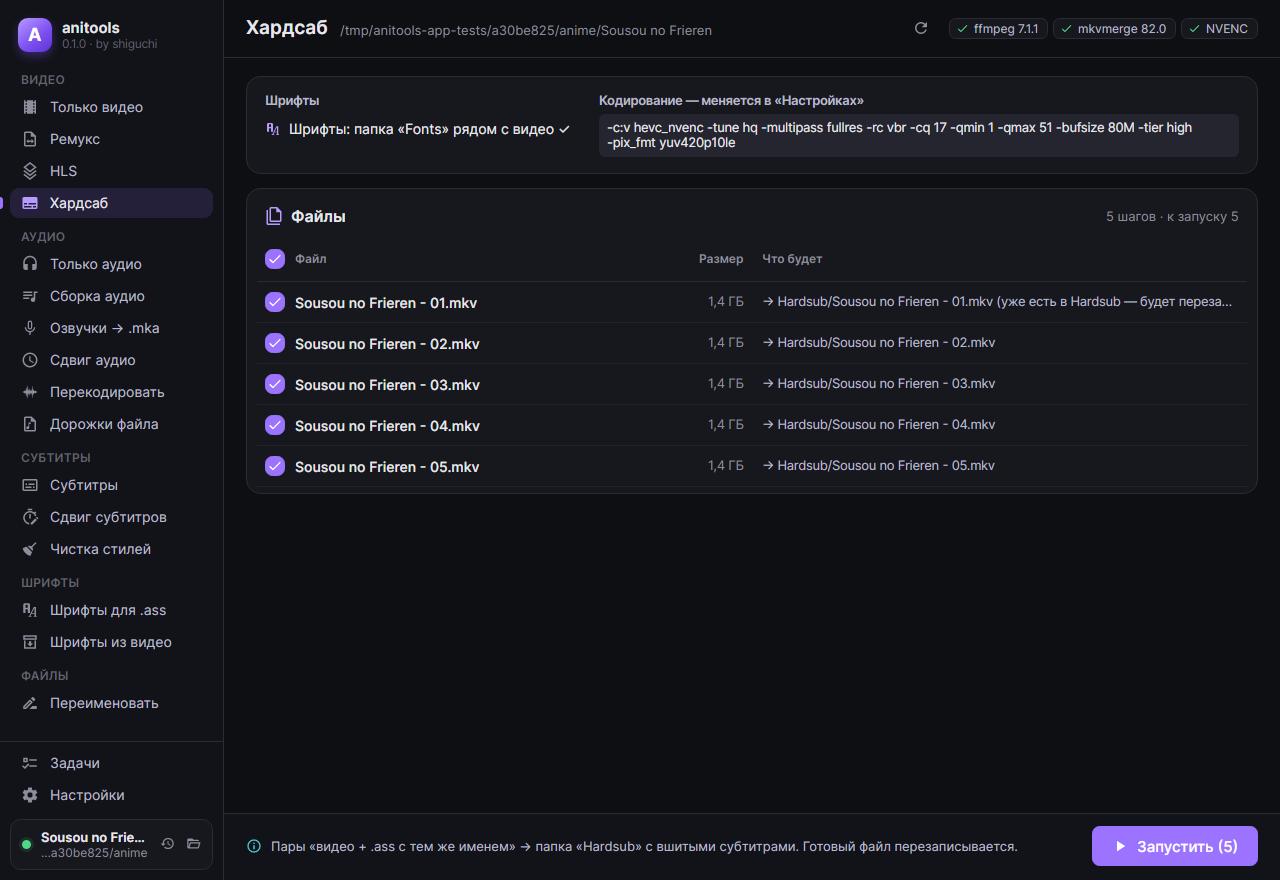
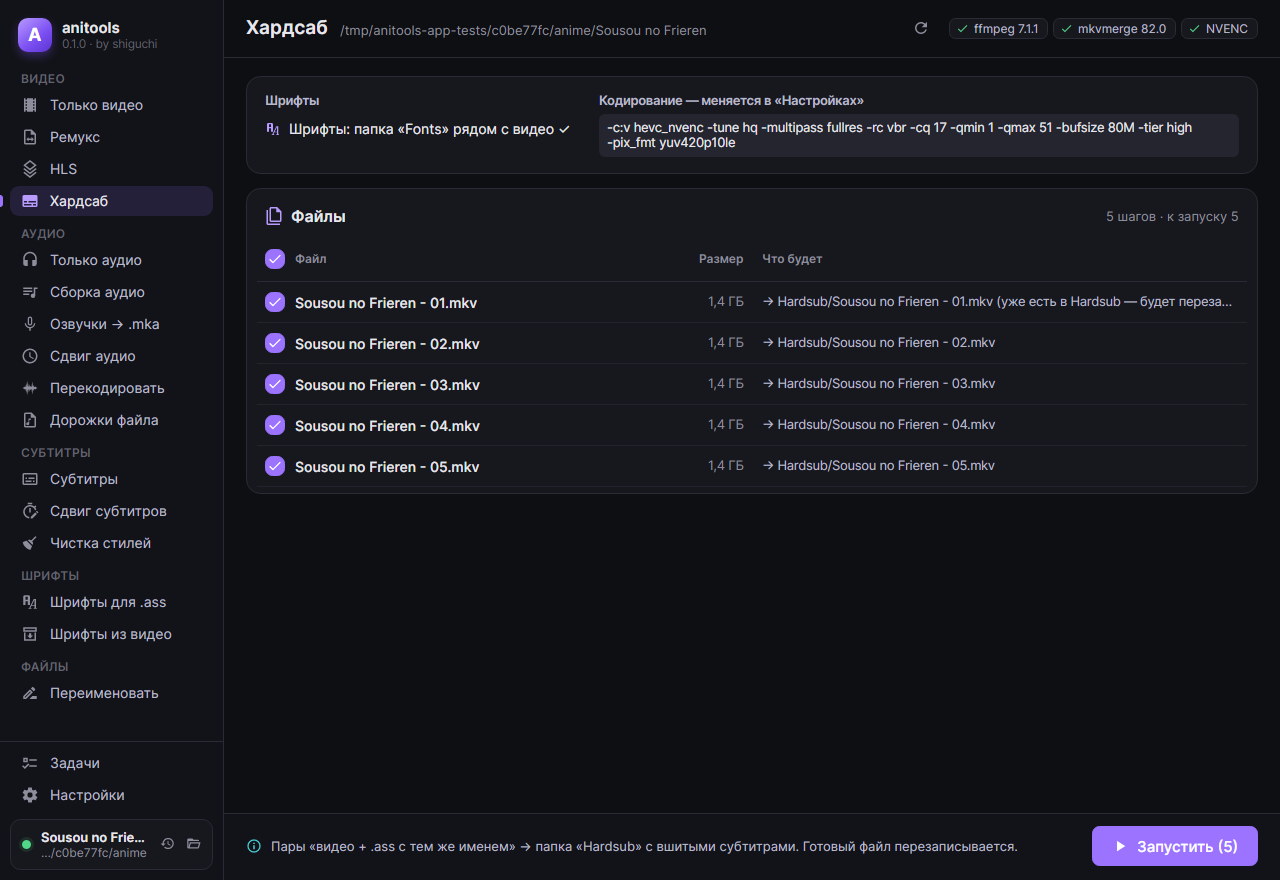
Меню: высота пунктов не зависит от шрифта, тест «всё помещается»
В Segoe UI строка выше, чем в Inter, — на Windows «Переименовать» уезжал
за прокрутку при стандартном размере окна.

Claude-Session: https://claude.ai/code/session_01BdLcn6FEckAvCHoTgtSA7g

Changed region(s): [[0.0, 0.092, 0.1562, 0.8284], [0.375, 0.0307, 0.5625, 0.0614], [0.0312, 0.9511, 0.125, 0.9818]]

diff --git a/tests/Anitools.App.Tests/MainWindowTests.cs b/tests/Anitools.App.Tests/MainWindowTests.cs
@@ -2,6 +2,7 @@ using Anitools.App.ViewModels;
 using Anitools.App.ViewModels.Pages;
 using Anitools.App.Views;
 using Anitools.Core.Jobs;
+using Avalonia;
 using Avalonia.Controls;
 using Avalonia.Headless.XUnit;
 using Avalonia.VisualTree;
@@ -29,6 +30,25 @@ public sealed class MainWindowTests
         Assert.Equal(["ВИДЕО", "АУДИО", "СУБТИТРЫ", "ШРИФТЫ", "ФАЙЛЫ"], vm.Navigation.OfType<NavHeader>().Select(h => h.Title));
         Assert.Same(vm.SettingsPage, vm.Navigation[^1]);
         Assert.Equal(18, vm.Navigation.OfType<PageViewModel>().Count());
+        window.Close();
+    }
+
+    [AvaloniaFact]
+    public void Whole_menu_fits_without_scrolling_in_default_window()
+    {
+        using var app = new AppFixture();
+        var vm = app.CreateViewModel();
+        var window = new MainWindow { DataContext = vm };
+        window.Show();
+        AppFixture.Flush();
+
+        // последний инструмент («Переименовать») целиком виден без прокрутки — и в Inter, и в Segoe UI на Windows
+        var list = window.FindControl<ListBox>("NavList")!;
+        var scroll = list.GetVisualDescendants().OfType<ScrollViewer>().First();
+        var last = list.ContainerFromIndex(list.ItemCount - 1);
+        Assert.NotNull(last);
+        var bottom = last.TranslatePoint(new Point(0, last.Bounds.Height), scroll)!.Value.Y;
+        Assert.True(bottom <= scroll.Viewport.Height + 0.5, $"меню не помещается: низ «{(vm.ToolNavigation[^1] as PageViewModel)?.Title}» {bottom:0} > {scroll.Viewport.Height:0}");
         window.Close();
     }
 
